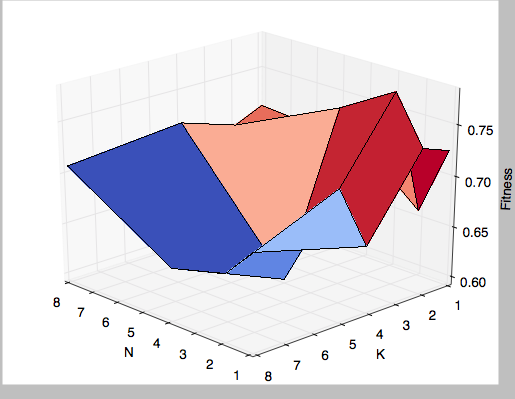
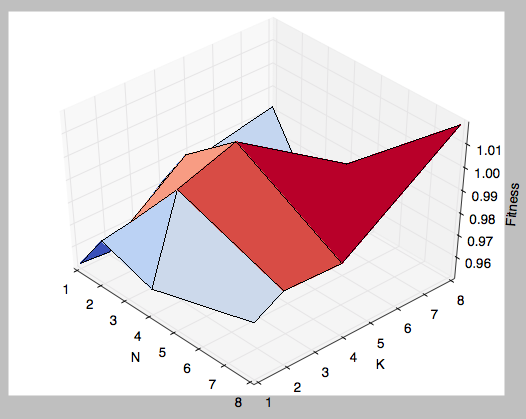
Upload mona lisa tuning plots

diff --git a/report.html b/report.html
@@ -54,7 +54,7 @@ The 3D graphs depict how the fitness after 25000 generations varies with N and K
 <td>32&times;32 pixels<br><img src="mona_lisa.bmp"></td>
 <td>P=100, N=1, K=1<br><img src="mona_lisa/mona_lisa_anim.png"></td>
 <td><img src="mona_lisa_fitness.png"></td>
-<td><img width=400 height=400 src="mona_lisa_tuning.png"><br>N=2, K=2 gave the best result</td>
+<td><img width=400 height=400 src="mona_lisa_tuning.png"><br>N=8, K=8 gave the best result</td>
 </tr>
 
 <tr>

diff --git a/Plot.py b/Plot.py
@@ -118,8 +118,8 @@ class Plot( object ):
                 
          
     
-Plot.plot_data( "mjchao.out" )
-#Plot.plot_tuning( "turing_tuning.out" )
+#Plot.plot_data( "mjchao.out" )
+Plot.plot_tuning( "mona_lisa_tuning.out" )
 #Plot.plot_tuning_average([ "darwin_tuning.out" , "haystack_tuning.out" , "michigan_tuning.out" , "mona_lisa_tuning.out" , "turing_tuning.out"] )
     
         
